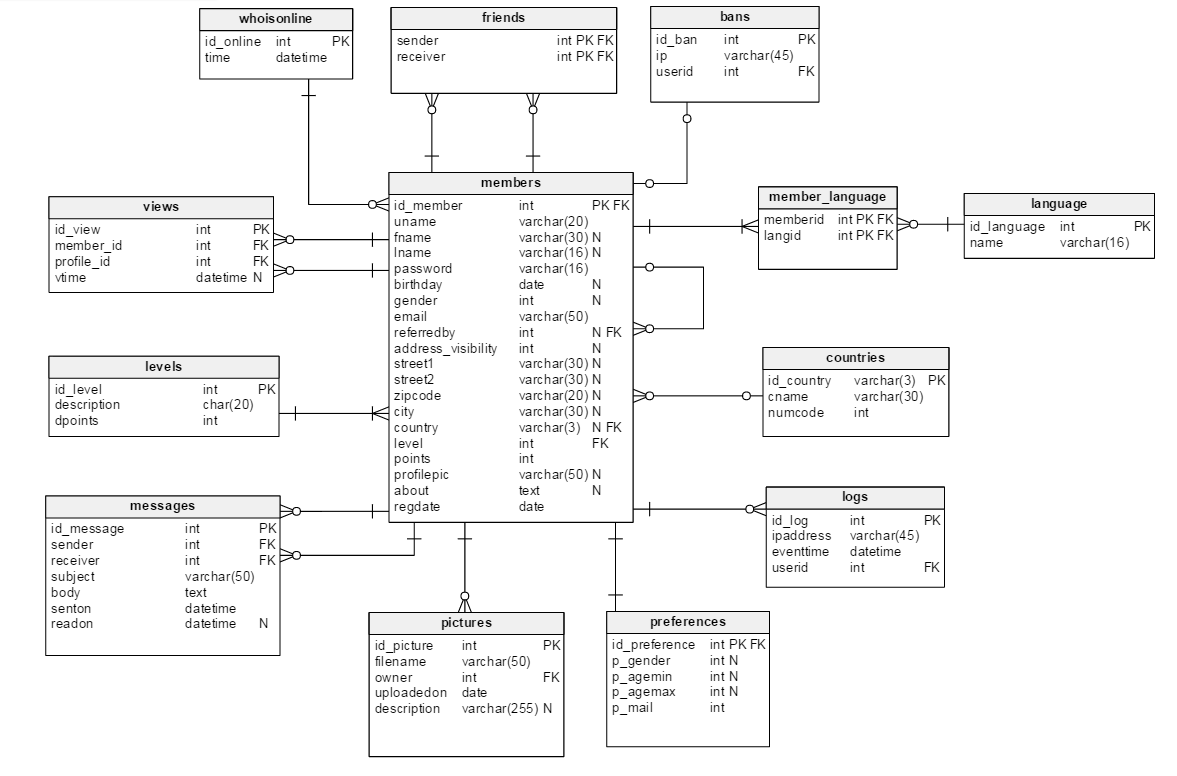
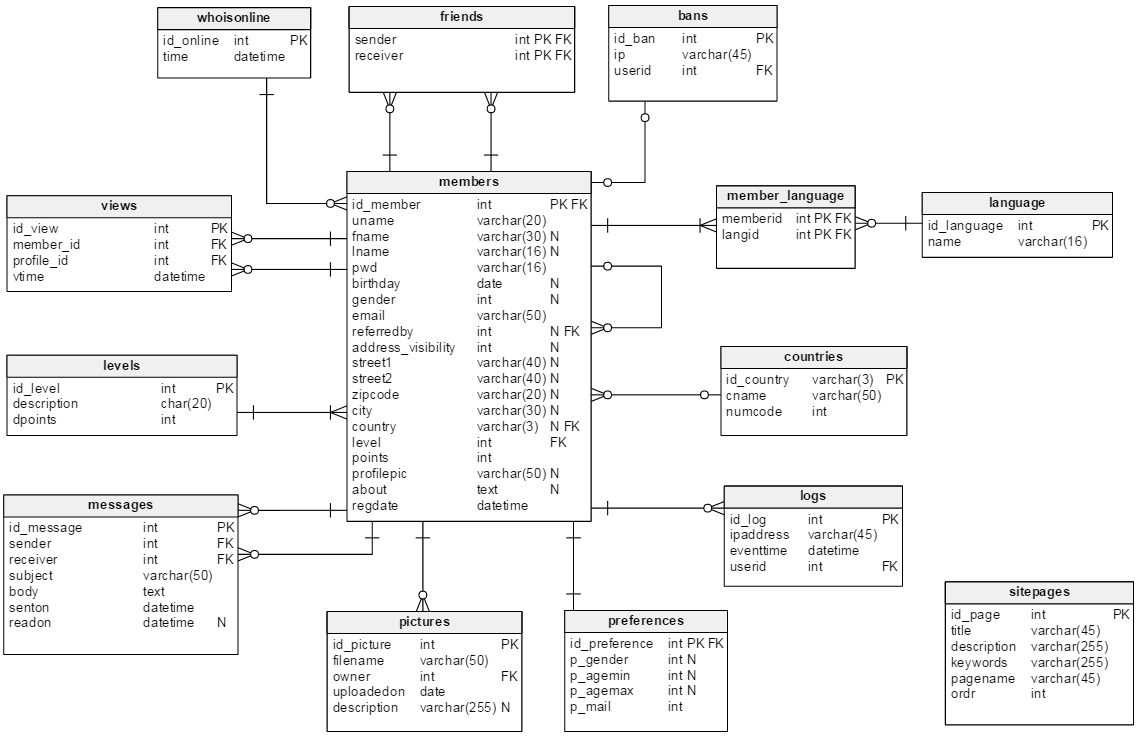
adds "sitepages" table to the database schema
this commits adds sitepages to the schema and modifies the primary key
from id to id_page.

Changed region(s): [[0.0, 0.0, 0.9842, 1.0], [0.8304, 0.7606, 1.0, 0.9735]]

diff --git a/includes/preparation.php b/includes/preparation.php
@@ -12,7 +12,7 @@
 		mysql_select_db($bdd) or die ("erreur de connexion à la base de données");
 
  		//Requete SQL pour récupérer des informations dans la BDD
-		$query 	 		= "select pagename, title, description, keywords from sitepages where id=".$Idpage;
+		$query 	 		= "select pagename, title, description, keywords from sitepages where id_page=".$Idpage;
 		$result  		= mysql_query($query) or die("problème dans la requete : ".$query);
 		$row 	 		= mysql_fetch_row($result);
 		$pagename		= $row[0];
@@ -30,7 +30,7 @@
 	$menu="";
 	while ($donnees = mysql_fetch_array ($req))
 			{
-				$lien 		= $donnees['id'];
+				$lien 		= $donnees['id_page'];
 				$titrelien 	= $donnees['title'];
                 if ($lien != $Idpage)
                 {

diff --git a/pages/randompals.php b/pages/randompals.php
@@ -7,9 +7,6 @@
  */
 
 
-//Préparation du menu dynamique
-//-----------------------------
-//-> On sélectionne toutes les pages de la table sitepages
 $requete    = "SELECT id_member, fname, lname, city, profilepic, country FROM members where profilepic is not null ORDER BY RAND() limit 6";
 $req 		= 	mysql_query($requete) or die("pb sur requete ".$requete);
 

diff --git a/browse.php b/browse.php
@@ -104,9 +104,7 @@
     {$selectedCountry="";}
 
 
-    //Préparation du menu dynamique
-    //-----------------------------
-    //-> On sélectionne toutes les pages de la table sitepages
+
     $requete    = "  SELECT regdate, id_member, fname, lname, city, profilepic, country
                 FROM members
                 where profilepic is not null
